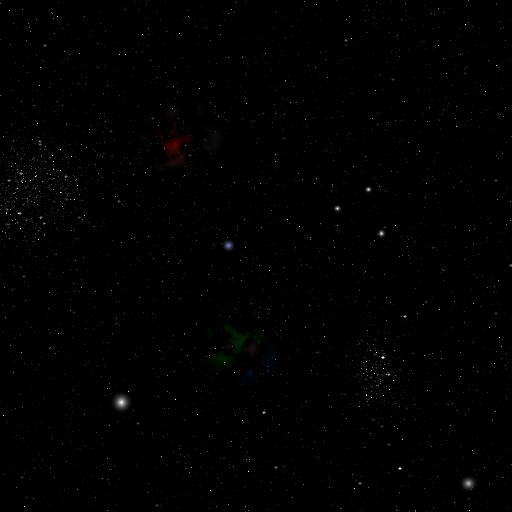
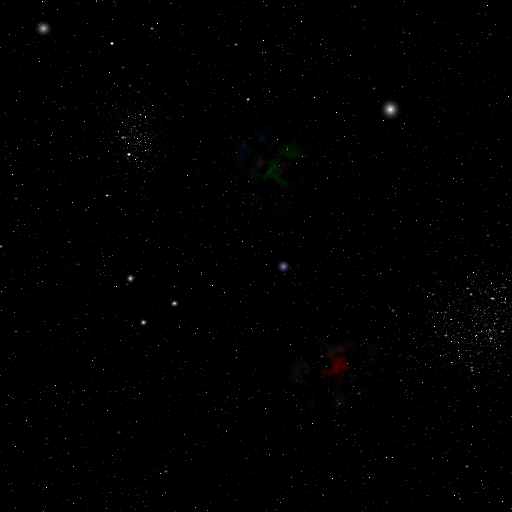
Multiple terrains.
Must have reduced the datails of the terrain.

diff --git a/main.cpp b/main.cpp
@@ -8,21 +8,31 @@
 #include <iostream>
 #include <chrono>
 
+std::string toStr(int no) {
+    std::string es;
+    if(no < 0) {
+        es += '-';
+        no = -no;
+    }
+    es += char(no + 48);
+    return es;
+}
+
 int main(int argc, char ** argv) {
     marrow::Window window(1000, 800, "Legolas");
-    //glEnable(GL_CULL_FACE);
-    //glCullFace(GL_BACK);
-    marrow::Camera camera(glm::vec3(0.0f, 0.0f, -10.0f), 0, 0);
+    glEnable(GL_CULL_FACE);
+    glCullFace(GL_BACK);
+    marrow::Camera camera(glm::vec3(0.0f, 0.0f, 0.0f), 0, 0);
     marrow::Geometry cabinet("obj/pino.obj");
     marrow::Texture plantex("tex/pino.png");
-    marrow::Object cabob(&cabinet, &plantex, glm::mat4(1.0));
+    marrow::Object cabob(&cabinet, &plantex, glm::translate(glm::mat4(1.0), glm::vec3(3.0, 20.0, 1.0)));
     marrow::Object cabob2(&cabinet, &plantex, glm::translate(glm::mat4(1.0), glm::vec3(3.0, 0.0, 1.0)));
     marrow::Object cabob3(&cabinet, &plantex, glm::translate(glm::mat4(1.0), glm::vec3(3.0, 0.0, 10.0)));
     marrow::Geometry houseg("obj/house.obj");
     marrow::Texture houset("tex/house.png");
     marrow::Object house(&houseg, &houset, glm::translate(glm::mat4(1.0), glm::vec3(3.0, 0.0, 25.0)));;
-    marrow::Light light(glm::vec4(10.0f, 5.0f, 0.0f, 0.0f), glm::vec3(0.2f, 0.2f, 0.2f), glm::vec3(0.5f, 0.5f, 0.5f), glm::vec3(3.4f, 0.0f, 0.0f));
-    marrow::Light light2(glm::vec4(10.0f, 5.0f, 0.0f, 0.0f), glm::vec3(0.2f, 0.2f, 0.2f), glm::vec3(0.5f, 0.5f, 0.5f), glm::vec3(3.4f, 0.0f, 0.0f));
+    marrow::Light light(glm::vec4(10.0f, 10.0f, 10.0f, 0.0f), glm::vec3(0.2f, 0.2f, 0.2f), glm::vec3(0.5f, 0.5f, 0.5f), glm::vec3(3.4f, 0.0f, 0.0f));
+    marrow::Light light2(glm::vec4(10.0f, 10.0f, 10.0f, 0.0f), glm::vec3(0.2f, 0.2f, 0.2f), glm::vec3(0.5f, 0.5f, 0.5f), glm::vec3(3.4f, 0.0f, 0.0f));
     marrow::Texture day = marrow::Texture::loadCubeFromFiles("tex/Day", ".png");
     marrow::Texture night = marrow::Texture::loadCubeFromFiles("tex/Night", ".png");
     marrow::Skybox skybox(&day, &night, &light, &light2, 30.0f);
@@ -34,14 +44,17 @@ int main(int argc, char ** argv) {
     renderer.addLight(&light);
     renderer.addLight(&light2);
     renderer.setSkybox(&skybox);
-    marrow::Texture heights("tex/height_map.png");
-    marrow::Texture brgb("tex/brgb_map.png");
+    std::string hs("tex/height_map");
+    std::string bs("tex/brgb_map");
     marrow::Texture background("tex/dirt.png");
     marrow::Texture red("tex/sand.png");
     marrow::Texture green("tex/grass.png");
     marrow::Texture blue("tex/Cobblestone.png");
-    marrow::Terrain terrain(&heights, &brgb, &background, &red, &green, &blue);
-    renderer.addTerrain(std::make_pair(-1, 0), &terrain);
+    for(int i = -2; i < 2; i++) {
+        for(int j = -2; j < 2; j++) {
+            renderer.addTerrain(std::make_pair(i, j), new marrow::Terrain(new marrow::Texture((hs+toStr(i)+toStr(j)+".png").c_str()), new marrow::Texture((bs+toStr(i)+toStr(j)+".png").c_str()), &background, &red, &green, &blue));
+        }
+    }
     bool done = false;
     std::chrono::high_resolution_clock::time_point t = std::chrono::high_resolution_clock::now(), t2;
     double span;
@@ -51,6 +64,14 @@ int main(int argc, char ** argv) {
             switch(event.type) {
                 case SDL_QUIT:
                     done = true;
+                    break;
+                case SDL_KEYDOWN:
+                    switch(event.key.keysym.sym) {
+                        case SDLK_l:
+                            glPolygonMode(GL_FRONT_AND_BACK, GL_LINE);
+                            break;
+                    }
+                    break;
             }
         }
         t2 = std::chrono::high_resolution_clock::now();

diff --git a/terrain.cpp b/terrain.cpp
@@ -11,9 +11,9 @@ namespace marrow {
             float * it = vertices;
             for(int i = 0; i < SIZE; i++) {
                 for(int j = 0; j < SIZE; j++) {
-                    *it = float(j) / SIZE;
+                    *it = i / (SIZE-1.0f);
                     it++;
-                    *it = float(i) / SIZE;
+                    *it = j / (SIZE-1.0f);
                     it++;
                 }
             }
@@ -22,11 +22,11 @@ namespace marrow {
             for(int i = 0; i < SIZE - 1; i++) {
                 for(int j = 0; j < SIZE - 1; j++) {
                     *it2 = SIZE*i + j;
-                    *(it2+1) = SIZE*(i+1) + j + 1;
-                    *(it2+2) = SIZE*i + j + 1;
+                    *(it2+1) = SIZE*i + j + 1;
+                    *(it2+2) = SIZE*(i+1) + j + 1;
                     *(it2+3) = SIZE*i + j;
-                    *(it2+4) = SIZE*(i+1) + j;
-                    *(it2+5) = SIZE*(i+1) + j + 1;
+                    *(it2+4) = SIZE*(i+1) + j + 1;
+                    *(it2+5) = SIZE*(i+1) + j;
                     it2 += 6;
                 }
             }

diff --git a/texture.cpp b/texture.cpp
@@ -55,8 +55,11 @@ namespace marrow {
         case IL_BGR:    internal_format = GL_RGB;    format = GL_BGR;    break;
         case IL_BGRA:    internal_format = GL_RGBA;    format = GL_BGRA;    break;
         case IL_COLOR_INDEX:
+        cerr<<"b";
         case IL_ALPHA:
+        cerr<<"b";
         case IL_LUMINANCE:
+        cerr<<"b";
         case IL_LUMINANCE_ALPHA:
             // Unsupported format
             ilBindImage(0);

diff --git a/terrain.hpp b/terrain.hpp
@@ -8,7 +8,7 @@
 namespace marrow {
     class Terrain {
         private:
-            const static int SIZE = 250;
+            const static int SIZE = 150;
             static Geometry  * _model;
             Texture * _height_map;
             Texture * _brgb_map;
